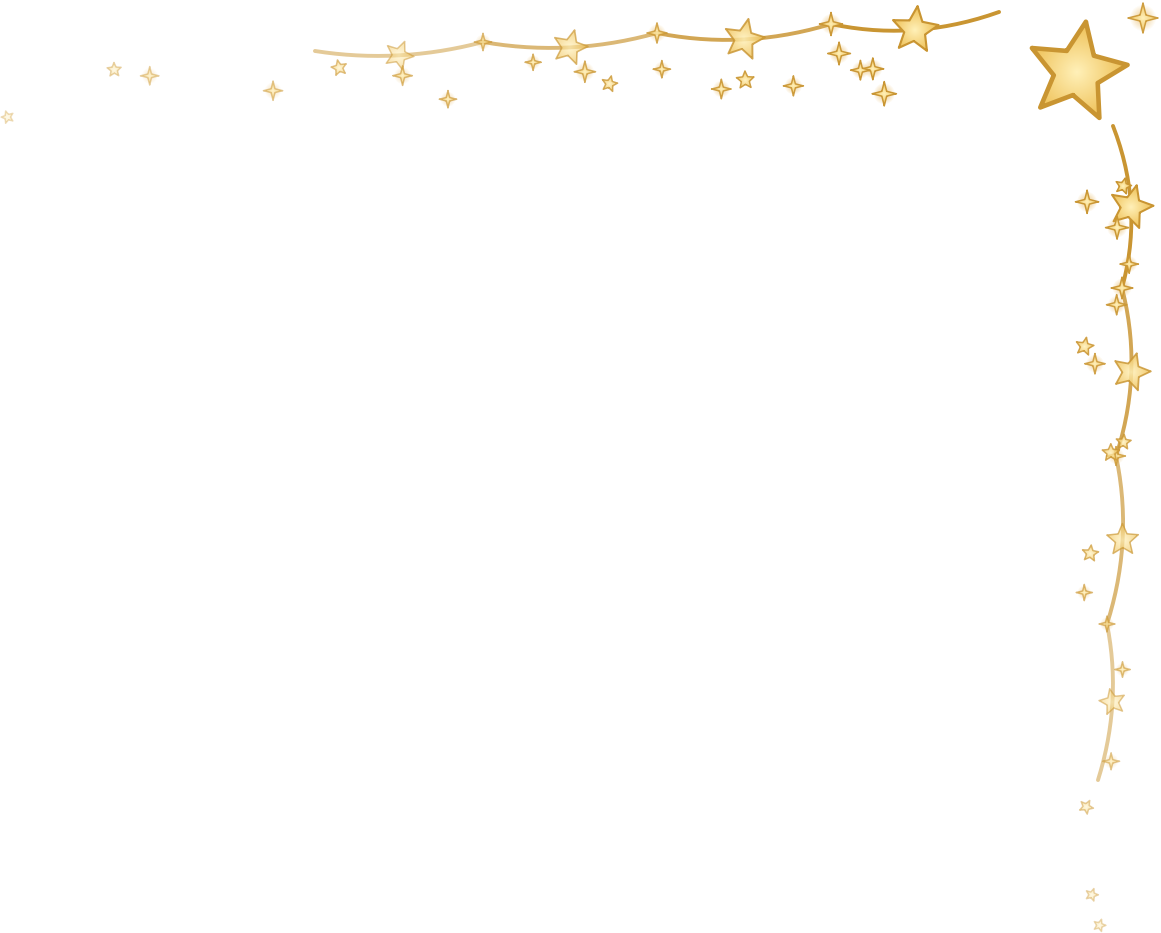
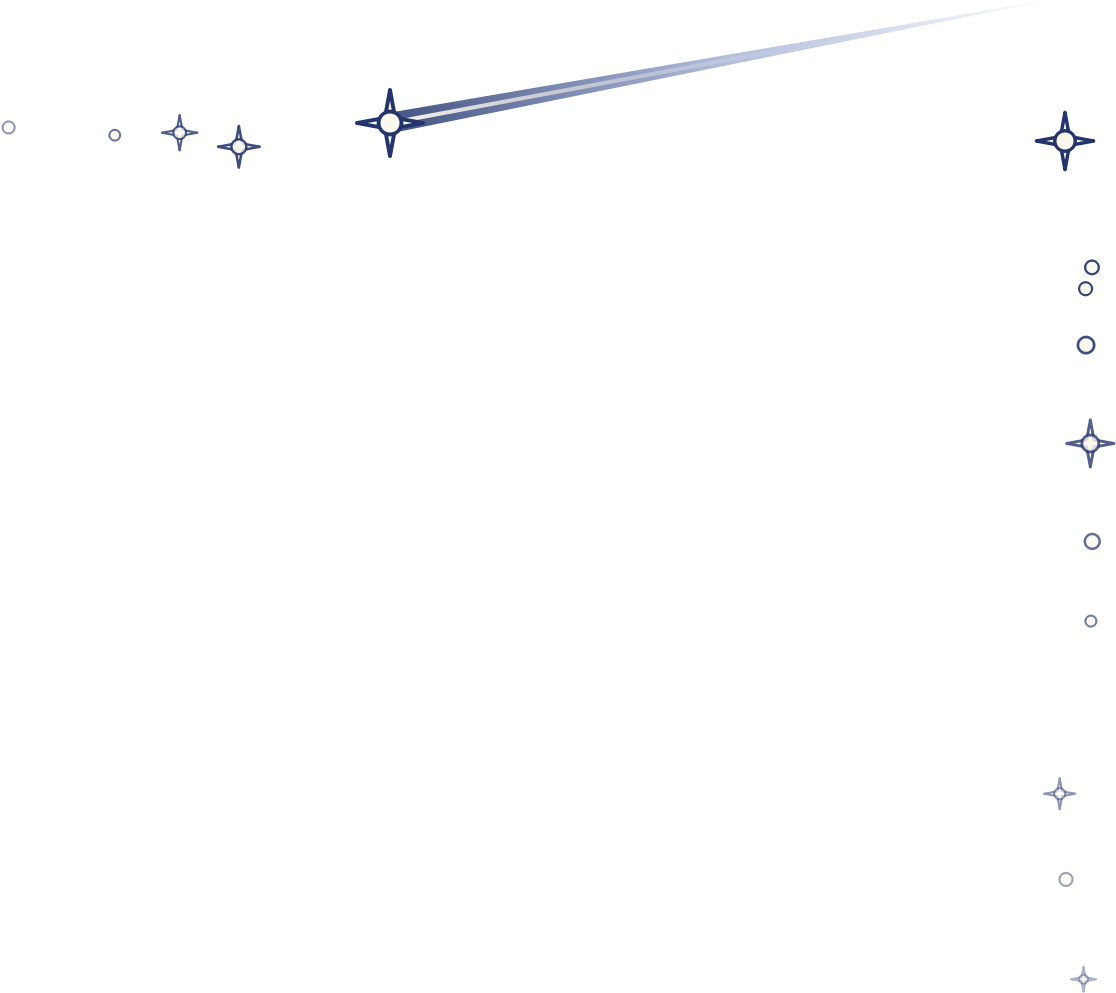
暮色蓝主题改名为星夜蓝（英文 Starry Night），主色加深为夜空藏青、强调色改为夜空紫蓝；窗口点缀改版为全部自绘的星夜风格：左上角深蓝夜空圆章带月牙与小星，沿上边一组北斗七星、沿左边一组仙后座（按真实星位）后接渐稀渐淡的星点，右上角一颗流星沿上边划过，右下角一顶门里透出暖光的帐篷跨在拐角、萤火虫往外飞散；外框渐隐描边最浓处由金色改为深藏青

diff --git a/dstools/qt/ornaments.py b/dstools/qt/ornaments.py
@@ -3,7 +3,7 @@
 
 构图讲主次，各主题共用一个骨架：左上角一簇作主角，沿上边、左边各延伸一串，末端越飘越稀、越淡；
 右上角一组作呼应，右下角一组收尾，左下角留白。樱花主题右下角是窗内散落的花朵花瓣；
-篝火主题右下角是跨在拐角上的一堆篝火，火星沿右边框往上飘。
+篝火主题右下角是跨在拐角上的一堆篝火，火星沿右边框往上飘；星夜蓝右下角是跨在拐角上的一顶帐篷，萤火虫往外飞散。
 图片素材在 icons/ornaments/（来源与授权见同目录 *_SOURCES.txt），按 3 倍屏预渲染成 PNG；
 精灵按 (主题, 序号, 缩放比) 缩放到物理像素并缓存，主窗口移动时只挪小窗位置，不重画。
 主窗口本身不开 WA_TranslucentBackground（整窗变分层窗口会拖慢绘制和缩放），只有这些小窗是透明的。
@@ -38,7 +38,7 @@ class Sprite:
 # ── 注册表 ───────────────────────────────────────────────────────────
 # 标题栏高 32：图标约在 x 10~28、y 7~25，标题文字从 x 约 34 起。主花团允许压住标题开头。
 # 各张图的相对位置在 reference/dev_scripts/ornaments/ 的排版脚本里一起排好（樱花 compose.py、
-# 篝火 compose_campfire.py、自然绿 mint/compose_mint.py、天空 sky/compose_sky.py），那边重新导出图片后按它打印的坐标同步这里。
+# 篝火 compose_campfire.py、自然绿 mint/compose_mint.py、天空 sky/compose_sky.py、星夜 twilight/compose_twilight.py），那边重新导出图片后按它打印的坐标同步这里。
 
 _SPRITES: dict[str, tuple[Sprite, ...]] = {
     "campfire": (
@@ -88,16 +88,16 @@ _SPRITES: dict[str, tuple[Sprite, ...]] = {
         Sprite("sky_bottom.png", 1, 1, -173.5, -137.5, 297),
     ),
     "twilight": (
-        # 排版脚本 compose_twilight.py。沿上边框向右、沿左边框向下各一串金线挂星，往外鼓出，
-        # 串边撒一道星屑，越远越小越稀越淡；星只停在外框线外侧，不挡标题文字
-        Sprite("twilight_spray_right.png", 0, 0, 304.5, -15, 34),
-        Sprite("twilight_spray_down.png", 0, 0, -19, 257.5, 429),
-        # 左上主角：一弯月牙斜靠在拐角外侧，下方两朵小云托着，周围几颗星
-        Sprite("twilight_cluster.png", 0, 0, -2, -17.5, 123),
-        # 右上呼应：拐角一颗大星，沿上边往左、沿右边往下各一小串挂星；都不挡标题栏按钮
-        Sprite("twilight_spray_corner.png", 1, 0, -163.5, 125.5, 311),
-        # 右下角：两朵云压在拐角，星星沿下边缘往左、沿右边缘往上散开；左下角留白
-        Sprite("twilight_bottom.png", 1, 1, -185, -124, 258),
+        # 星夜蓝，排版脚本 twilight/compose_twilight.py，素材全部自绘。沿上边框向右一组北斗七星、
+        # 沿左边框向下一组仙后座（按真实星位），之后零散星点越远越稀越淡；都停在外框线外侧，不挡标题文字
+        Sprite("twilight_spray_right.png", 0, 0, 322.5, -33, 64),
+        Sprite("twilight_spray_down.png", 0, 0, -34.5, 243, 398),
+        # 左上主角：一枚深蓝夜空圆章斜挂在拐角外，章里一弯月牙和几颗小星，不压标题栏图标
+        Sprite("twilight_cluster.png", 0, 0, -15, -17, 94),
+        # 右上呼应：一颗流星从拐角外侧沿上边往左划过，几颗星沿右边框外侧往下；都不挡标题栏按钮
+        Sprite("twilight_spray_corner.png", 1, 0, -159, 108.5, 331),
+        # 右下角：一顶深蓝帐篷跨在拐角上、门里透出暖光，萤火虫沿下边缘往左、沿右边框往上飞散；左下角留白
+        Sprite("twilight_bottom.png", 1, 1, -126, -131.5, 273),
     ),
 }
 

diff --git a/dstools/shared/palettes.py b/dstools/shared/palettes.py
@@ -35,12 +35,12 @@ THEMES = {
         "FONT_SIZE_BASE": 11, "FONT_SIZE_SM": 10, "FONT_SIZE_XS": 9,
     },
     "twilight": {
-        "PRIMARY": "#5B8DEF", "PRIMARY_DARK": "#3F6FD1", "PRIMARY_LIGHT": "#D9E6FB",
-        "BG_SOFT": "#EEF3FC", "ACCENT": "#2D9CDB", "TEXT": "#2A3342", "TEXT_MUTED": "#6B7785",
-        "CARD_BG": "#FFFFFF", "CARD_BG_ALT": "#F5F8FE", "CARD_BORDER": "#D3E1FA",
-        "SHADOW": "#C7D6F0", "ERROR": "#c62828", "SUCCESS": "#2E7D32", "HEADING": "#33415C",
+        "PRIMARY": "#3E5BA8", "PRIMARY_DARK": "#2C437F", "PRIMARY_LIGHT": "#DCE2F3",
+        "BG_SOFT": "#EDF0F8", "ACCENT": "#6C5FD3", "TEXT": "#232B40", "TEXT_MUTED": "#6A7389",
+        "CARD_BG": "#FFFFFF", "CARD_BG_ALT": "#F4F6FB", "CARD_BORDER": "#D3DAEE",
+        "SHADOW": "#C3CCE4", "ERROR": "#c62828", "SUCCESS": "#2E7D32", "HEADING": "#26335A",
         "BANNER_BG": "#fdecc8", "BANNER_TEXT": "#7a5a12",
-        "ORNAMENT": "#F3D98B", "ORNAMENT_ACCENT": "#D9A441",
+        "ORNAMENT": "#8FA3D6", "ORNAMENT_ACCENT": "#23356E",
         "FONT_SIZE_XL": 18, "FONT_SIZE_LG": 15, "FONT_SIZE_MD": 12,
         "FONT_SIZE_BASE": 11, "FONT_SIZE_SM": 10, "FONT_SIZE_XS": 9,
     },

diff --git a/dstools/i18n/strings.py b/dstools/i18n/strings.py
@@ -35,7 +35,7 @@ STRINGS = {
         "theme.ornaments": "窗口点缀",
         "theme.mint": "自然绿",
         "theme.sky": "天空蓝",
-        "theme.twilight": "暮色蓝",
+        "theme.twilight": "星夜蓝",
         "theme.campfire": "篝火橙",
         "theme.sakura": "樱花粉",
         # 设置菜单
@@ -1439,7 +1439,7 @@ STRINGS = {
         "theme.ornaments": "Window Ornaments",
         "theme.mint": "Nature",
         "theme.sky": "Sky",
-        "theme.twilight": "Twilight",
+        "theme.twilight": "Starry Night",
         "theme.campfire": "Campfire",
         "theme.sakura": "Sakura",
         # 设置菜单
